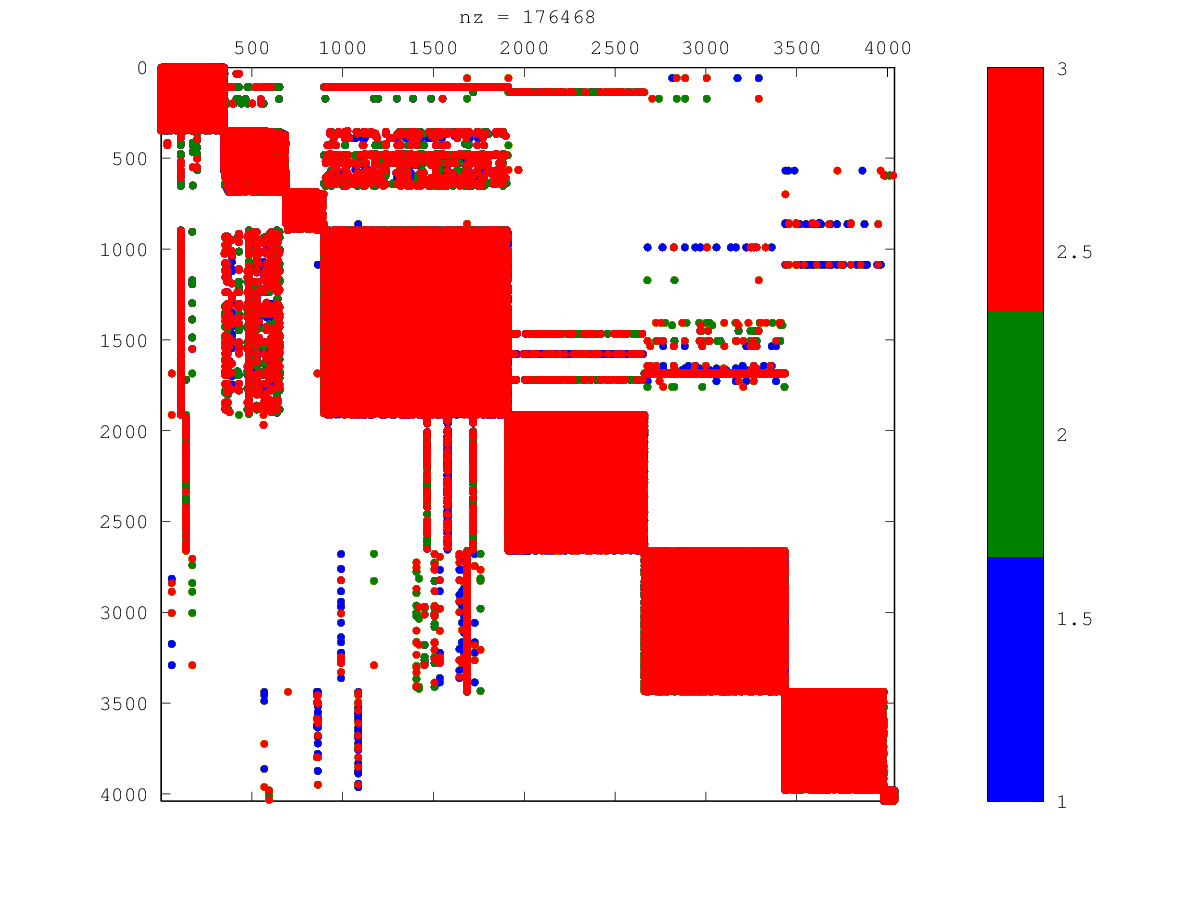
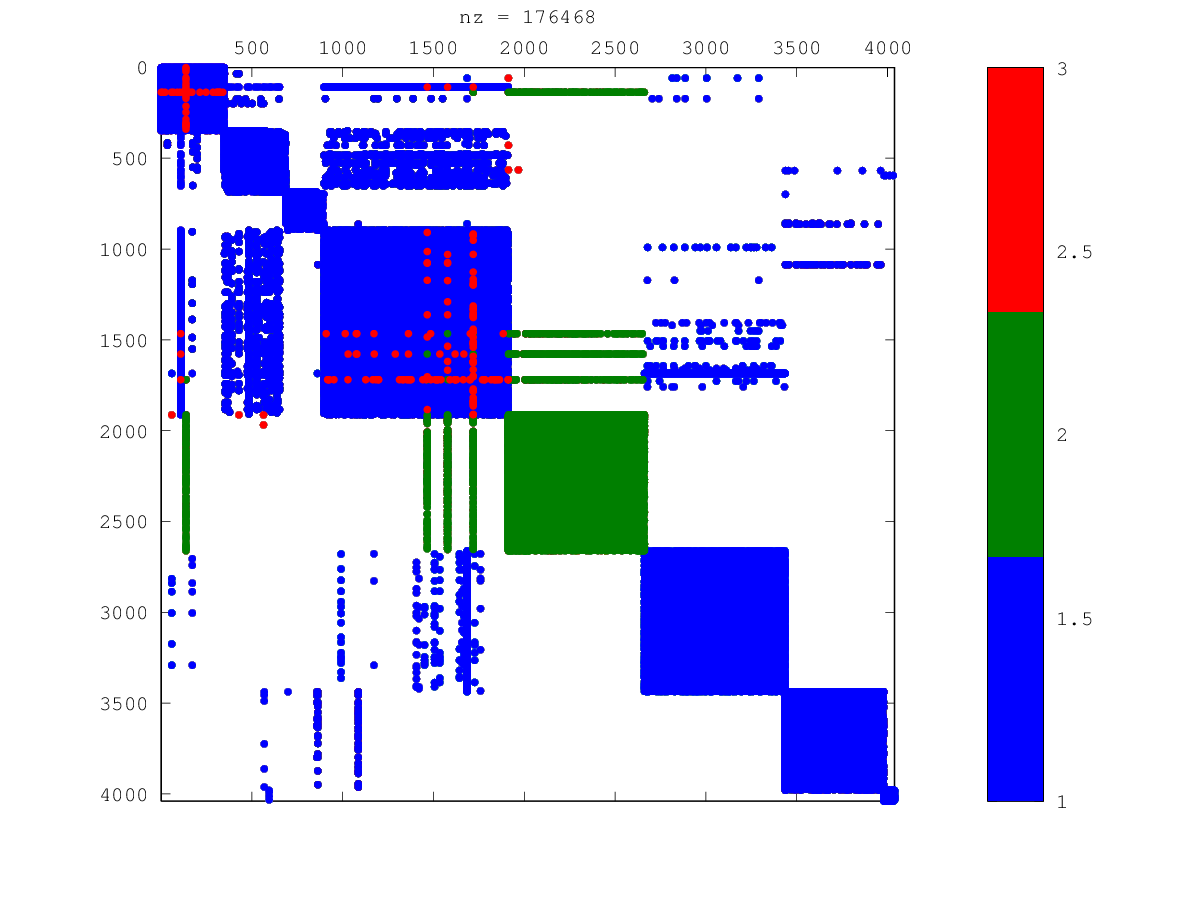
Experiments with 4 iterations of kmeans

diff --git a/benchmark.m b/benchmark.m
@@ -12,8 +12,34 @@ function [Metrics] = benchmark(Graph, Decomp, MaxClusters)
   Metrics = []; 
 
   graphics_toolkit gnuplot
+  % Colors used to plot
+  colororder = [
+	0.00  0.00  1.00
+	0.00  0.50  0.00 
+	1.00  0.00  0.00 
+	0.00  0.75  0.75
+	0.75  0.00  0.75
+	0.75  0.75  0.00 
+	0.25  0.25  0.25
+	0.75  0.25  0.25
+	0.95  0.95  0.00 
+	0.25  0.25  0.75
+	0.75  0.75  0.75
+	0.00  1.00  0.00 
+	0.76  0.57  0.17
+	0.54  0.63  0.22
+	0.34  0.57  0.92
+	1.00  0.10  0.60
+	0.88  0.75  0.73
+	0.10  0.49  0.47
+	0.66  0.34  0.65
+	0.99  0.41  0.23
+  ];
+  set(gca(),'colororder',colororder);
+  cla();
+
   for c = 2:MaxClusters
-  	[cIdxs, cCenters, cSumD] = k_means(Decomp,c,'EmptyAction','Singleton'); %,'Replicates',4);
+  	[cIdxs, cCenters, cSumD] = k_means(Decomp,c,'EmptyAction','Singleton', 'Replicates',4);
   	distanceToCentroidMetric = sum(cSumD);
   	modularityMetric = modularity(cIdxs, Graph);
   	Metrics = [Metrics [c; distanceToCentroidMetric; modularityMetric]];
@@ -37,4 +63,8 @@ function [Metrics] = benchmark(Graph, Decomp, MaxClusters)
 
   % Requires miscellaneous package in octave
   textable(Metrics, 'file', 'clustering-stats.tex');
+  
+  h = figure(3,'visible','off');
+  cspy(Graph);
+  print(h,'-dpng', '-color', 'original-graph.png');  
 end

diff --git a/clustering-stats.tex b/clustering-stats.tex
@@ -1,11 +1,11 @@
 \begin{tabular}{rrr}
-    2 & 8.25512 & -0.00169303 \\
-    3 & 7.41611 & 0.207003 \\
-    4 & 6.36774 & 0.381131 \\
-    5 & 5.72417 & 0.211607 \\
-    6 & 5.2247 & 0.63828 \\
-    7 & 3.93075 & 0.6487 \\
-    8 & 3.79842 & 0.562902 \\
-    9 & 2.50954 & 0.579069 \\
-    10 & 2.65449 & 0.510168 \\
+    2 & 8.00395 & 0.45355 \\
+    3 & 7.02347 & 0.498872 \\
+    4 & 6.02695 & 0.666345 \\
+    5 & 5.04505 & 0.690579 \\
+    6 & 4.04013 & 0.7078 \\
+    7 & 3.16027 & 0.709787 \\
+    8 & 2.39683 & 0.711317 \\
+    9 & 2.67809 & 0.497524 \\
+    10 & 2.24729 & 0.640559 \\
 \end{tabular}
